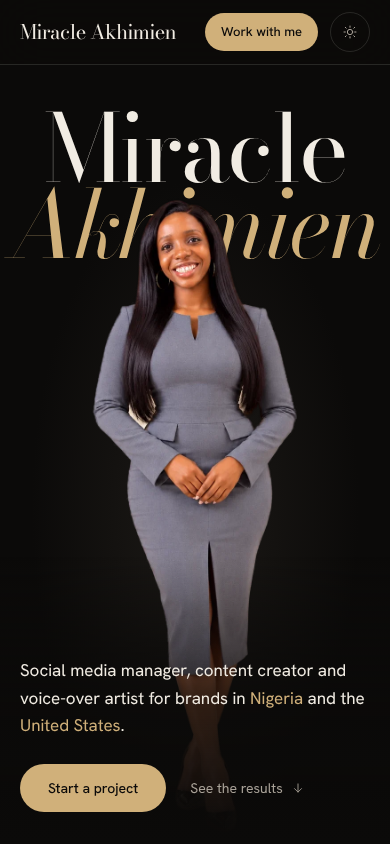
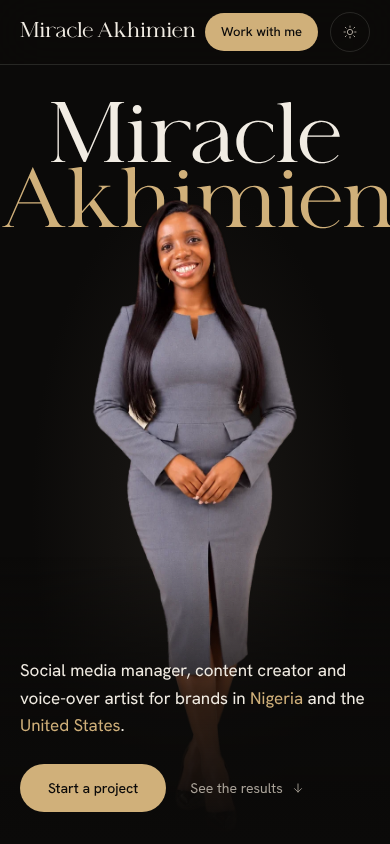
Switch display font to Orange Avenue; fit hero and contact headings on mobile
Claude-Session: https://claude.ai/code/session_017HRKuGRTr2TeYunUwT3HaN

Changed region(s): [[0.0308, 0.1232, 1.0, 0.3081], [0.0615, 0.0308, 0.4923, 0.0616], [0.0, 0.2464, 0.0308, 0.2773]]

diff --git a/web/app/page.tsx b/web/app/page.tsx
@@ -86,16 +86,16 @@ export default function Home() {
             className="absolute inset-0 -z-20 bg-[radial-gradient(60%_55%_at_50%_60%,var(--wall-3),transparent_70%)]"
             aria-hidden
           />
-          <h1 className="par-name absolute inset-x-0 top-[13svh] -z-10 text-center md:top-[10svh]">
+          <h1 className="par-name absolute inset-x-0 top-[13svh] -z-10 text-center md:top-[12svh]">
             <span className="sr-only">
               {site.fullName}, {site.disciplines}
             </span>
-            <span aria-hidden className="display enter-rise block text-[24vw] leading-[0.82] md:text-[17vw]">
+            <span aria-hidden className="display enter-rise block text-[19vw] leading-[0.82] md:text-[16vw]">
               Miracle
             </span>
             <span
               aria-hidden
-              className="display enter-rise block text-[24vw] italic leading-[0.82] text-gold md:text-[17vw]"
+              className="display enter-rise block text-[19vw] italic leading-[0.82] text-gold md:text-[16vw]"
               style={{ animationDelay: "120ms" }}
             >
               Akhimien
@@ -400,8 +400,8 @@ export default function Home() {
         <section id="contact" className="night scroll-mt-16 border-t border-hair px-5 py-24 md:px-10 md:py-36">
           <div className="mx-auto grid max-w-[92rem] gap-14 md:grid-cols-12">
             <div className="md:col-span-6">
-              <h2 className="display split text-6xl leading-[0.95] md:text-8xl">
-                Let&rsquo;s make your brand <span className="italic text-gold">unforgettable</span>.
+              <h2 className="display split text-[11.5vw] leading-[0.95] md:text-8xl">
+                Let&rsquo;s make your brand <span className="italic text-gold">unforgettable.</span>
               </h2>
               <p className="reveal mt-8 max-w-sm leading-relaxed text-ink-2">
                 Tell her about your brand and what you want to achieve. Replies within two working days.

diff --git a/web/app/globals.css b/web/app/globals.css
@@ -1,5 +1,14 @@
 @import "tailwindcss";
 
+/* Orange Avenue by Ratna Krismawati (commercial licence, supplied by client). No italic cut exists. */
+@font-face {
+  font-family: "Orange Avenue";
+  src: url("/fonts/orange-avenue.woff2") format("woff2");
+  font-weight: 400;
+  font-style: normal;
+  font-display: swap;
+}
+
 @custom-variant dark (&:where([data-theme="dark"], [data-theme="dark"] *));
 
 /* Default: dark luxury. */
@@ -53,7 +62,7 @@
   --color-gold-deep: var(--gold-deep);
   --color-gilt: var(--gold);
   --color-gilt-line: var(--gold-deep);
-  --font-display: "Bodoni Moda Variable", "Bodoni 72", Didot, serif;
+  --font-display: "Orange Avenue", "Bodoni Moda Variable", Didot, serif;
   --font-sans: "Hanken Grotesk Variable", ui-sans-serif, system-ui, sans-serif;
   --ease-out-expo: cubic-bezier(0.16, 1, 0.3, 1);
 }
@@ -73,9 +82,14 @@ body {
 
 .display {
   font-family: var(--font-display);
-  font-optical-sizing: auto;
   font-weight: 400;
-  letter-spacing: -0.025em;
+  letter-spacing: -0.01em;
+  font-synthesis: none;
+}
+/* Orange Avenue has no italic; emphasis words stay upright and carry the gold. */
+.display.italic,
+.display .italic {
+  font-style: normal;
 }
 
 ::selection {

diff --git a/web/app/layout.tsx b/web/app/layout.tsx
@@ -3,6 +3,7 @@ import "@fontsource-variable/bodoni-moda/opsz.css";
 import "@fontsource-variable/bodoni-moda/opsz-italic.css";
 import "@fontsource-variable/hanken-grotesk";
 import "./globals.css";
+
 import { site } from "@/content/site";
 
 const title = `${site.name}: Strategy, Story & Voice`;
@@ -29,6 +30,7 @@ export default function RootLayout({ children }: Readonly<{ children: React.Reac
   return (
     <html lang="en" suppressHydrationWarning>
       <head>
+        <link rel="preload" href="/fonts/orange-avenue.woff2" as="font" type="font/woff2" crossOrigin="" />
         <script dangerouslySetInnerHTML={{ __html: themeScript }} />
       </head>
       <body>{children}</body>

diff --git a/DESIGN.md b/DESIGN.md
@@ -15,7 +15,7 @@ Dark by default (the client asked for black and gold), with a light-mode toggle.
 `.night` forces the dark palette (contact + footer). Theme stored in `localStorage.theme`, set before paint.
 
 ## Type
-- Display: Bodoni Moda (variable, optical size). Hero name at 17vw desktop / 24vw mobile, second line italic gold.
+- Display: Orange Avenue by Ratna Krismawati (commercial licence supplied by client; `web/public/fonts/orange-avenue.woff2`, preloaded). It has no italic, so emphasis words stay upright in gold. Bodoni Moda is the fallback. Hero name at 16vw desktop / 19vw mobile.
 - Text: Hanken Grotesk (variable). Self-hosted via @fontsource.
 
 ## Signature moments
